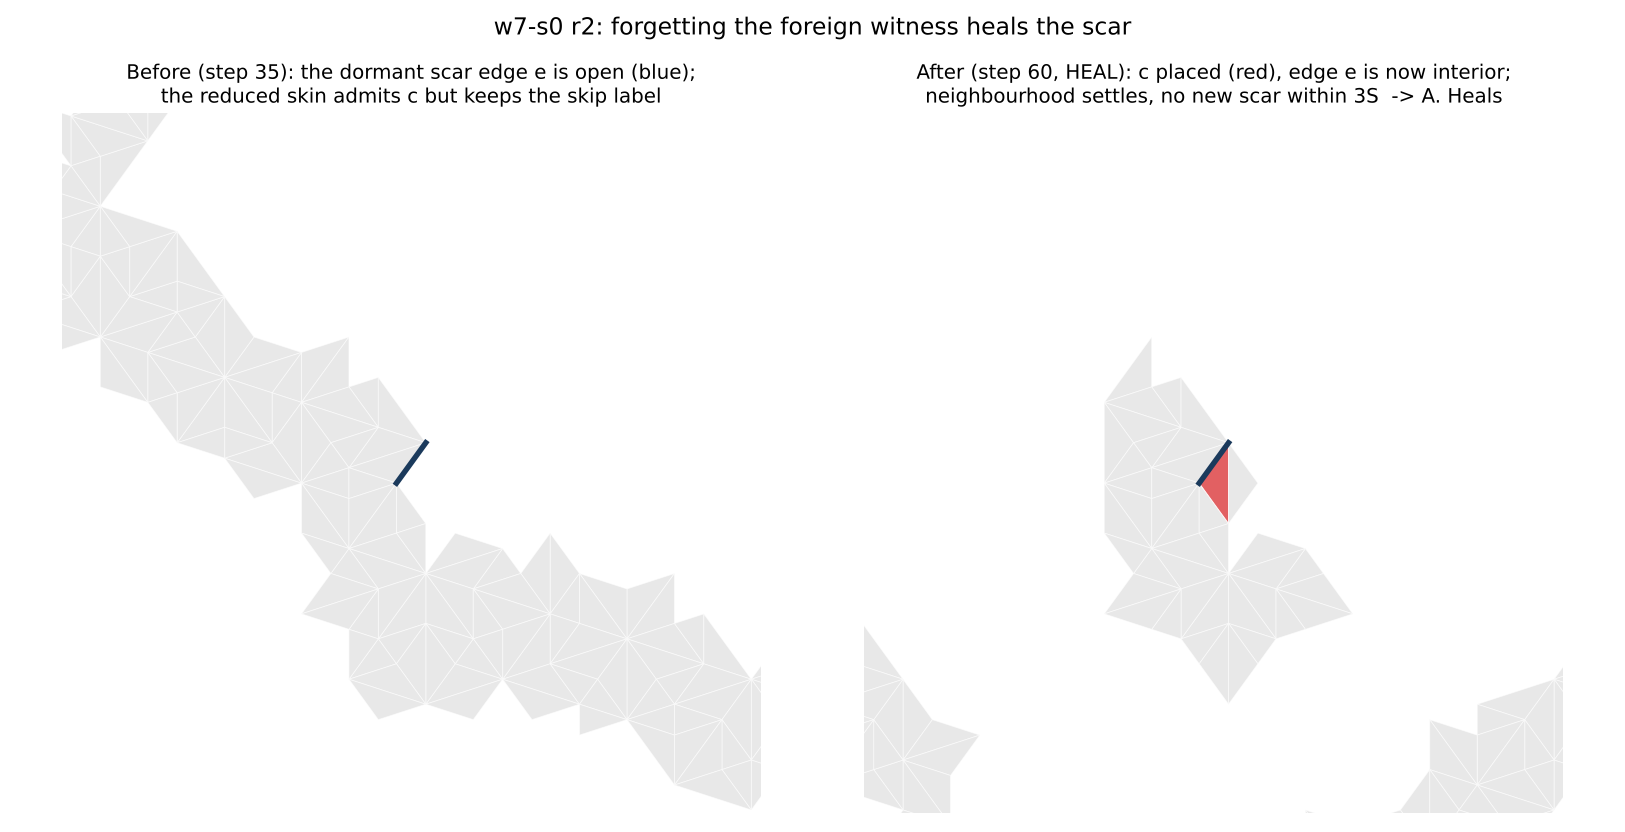
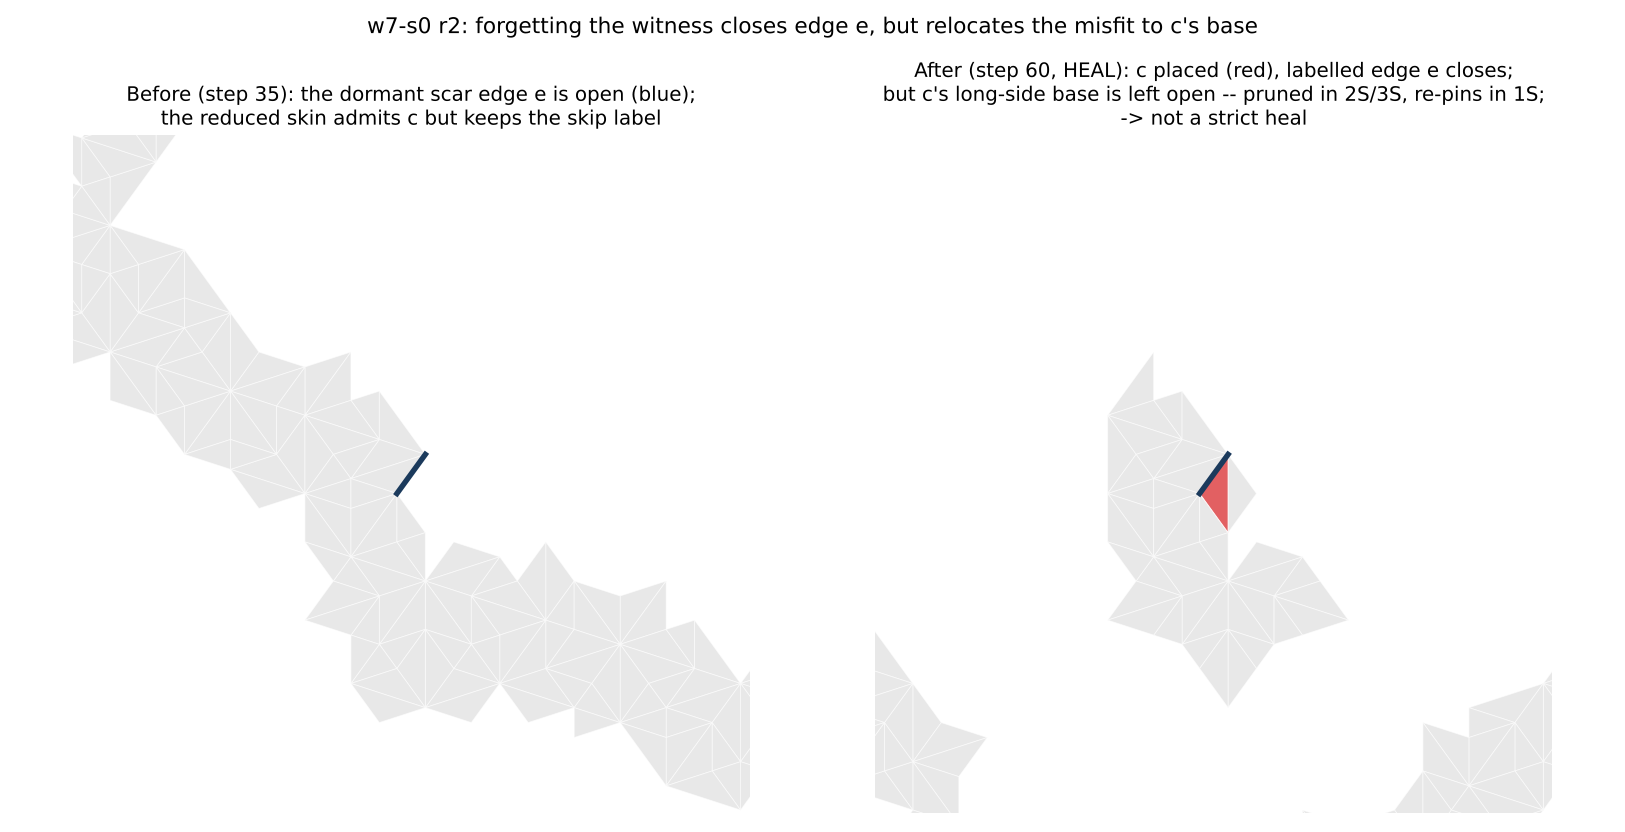
Regenerate heal figure with corrected captions (world-7 reproduction verified)
Rebuilt the world-7 base cache and step-jam state, confirmed the
reconstruction reproduces the committed result exactly (scar edge e, c
placed @36, closure @36, retained band 485 tiles), then re-rendered
figures/heal_w7_s0.png. The figure no longer labels the outcome
"A. Heals": it now shows that the labelled edge e closes but c's long-side
base is left open (pruned in 2S/3S, re-pins in 1S) -> not a strict heal,
matching the dated HANDBACK correction note. Raw scar_heal.json unchanged;
frozen engine 84130b9 unchanged; intervention world only.

Claude-Session: https://claude.ai/code/session_01RmRkKirh6svNauzsWkCx3q

Changed region(s): [[0.0615, 0.0, 0.9538, 0.1562], [0.7385, 0.5312, 0.7692, 0.625], [0.2462, 0.5312, 0.2769, 0.5938]]

diff --git a/exploratory/accretion_pilot/scar_heal_2026-11-10/make_figure.py b/exploratory/accretion_pilot/scar_heal_2026-11-10/make_figure.py
@@ -45,7 +45,8 @@ def main():
          'Before (step 35): the dormant scar edge e is open (blue);\nthe reduced skin admits c but keeps the skip label', span)
     draw(ax2, tiles_near(after, emid, span * 1.4), e, c,
          f"After (step {H.HORIZON}, HEAL): c placed (red), labelled edge e closes;\n"
-         f"but c's long-side base never settles (pruned in 2S/3S, re-pins in 1S)  -> not a strict heal", span)
+         f"but c's long-side base is left open -- pruned in 2S/3S, re-pins in 1S;\n"
+         f"-> not a strict heal", span)
     fig.suptitle("w7-s0 r2: forgetting the witness closes edge e, but relocates the misfit to c's base", fontsize=12)
     fig.tight_layout(rect=[0, 0, 1, 0.96])
     (HERE / 'figures').mkdir(exist_ok=True)

diff --git a/exploratory/accretion_pilot/scar_heal_2026-11-10/HANDBACK.md b/exploratory/accretion_pilot/scar_heal_2026-11-10/HANDBACK.md
@@ -138,5 +138,8 @@ the live front moved on with one fewer label). Tracking `c`'s **long side**
    exactly — the earlier NULL was a no-op; the harness holds under the real operation.
 4. **Revised class table** (strict wording): w7-s0-r2/-r3 and w7-s1-r2 → *closes-but-base-forgotten*
    (not strict A); w7-s0-r1 and group-3 → **C. Returns**; ONE-TILE → **C. Returns**. The original
-   `scar_heal.json` and figure are preserved; `scar_heal_followup.json` carries the per-step long-side
-   trace, the extended run, the real-NULL check, and the nearest-new-scar identification.
+   raw `scar_heal.json` is preserved; `figures/heal_w7_s0.png` has been **regenerated** with corrected
+   captions (no longer "A. Heals"), after verifying the world-7 reconstruction reproduces the committed
+   result exactly (scar edge `e`, c placed @36, closure @36, retained band 485 tiles).
+   `scar_heal_followup.json` carries the per-step long-side trace, the extended run, the real-NULL check,
+   and the nearest-new-scar identification.
